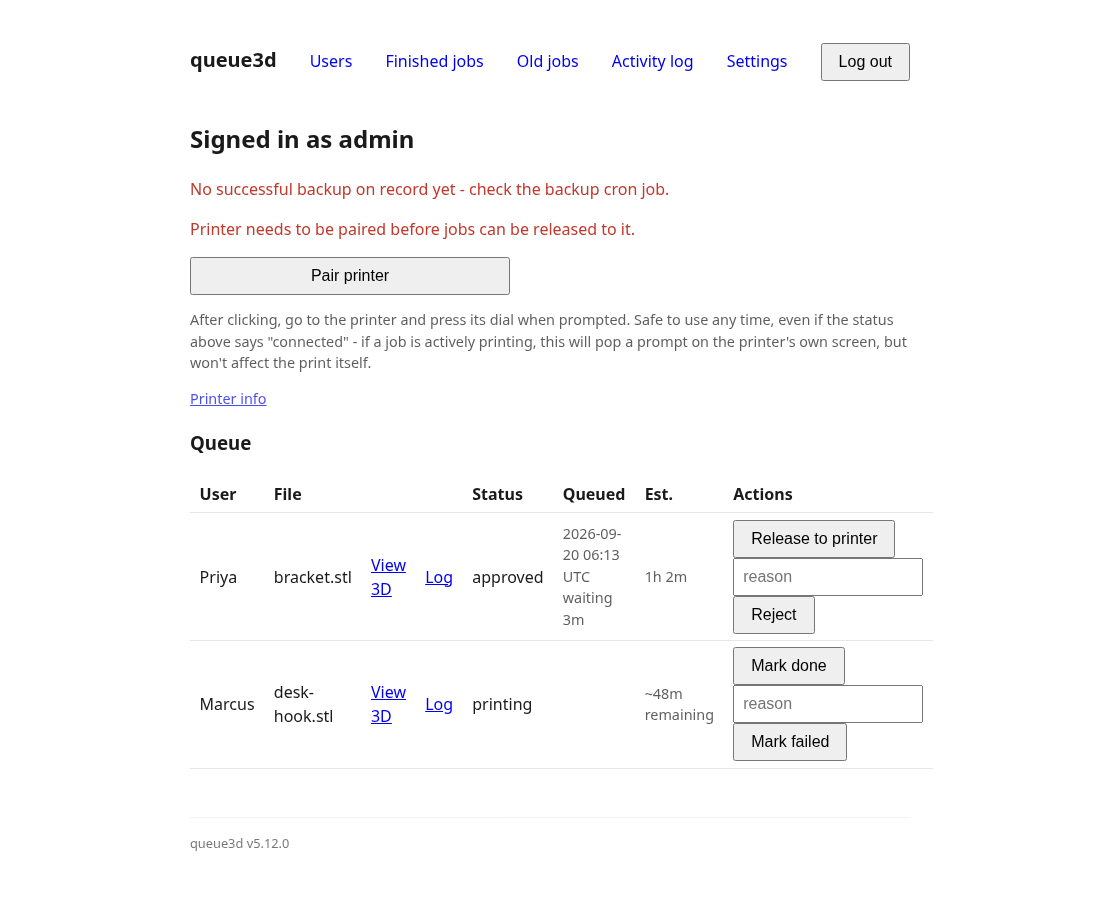
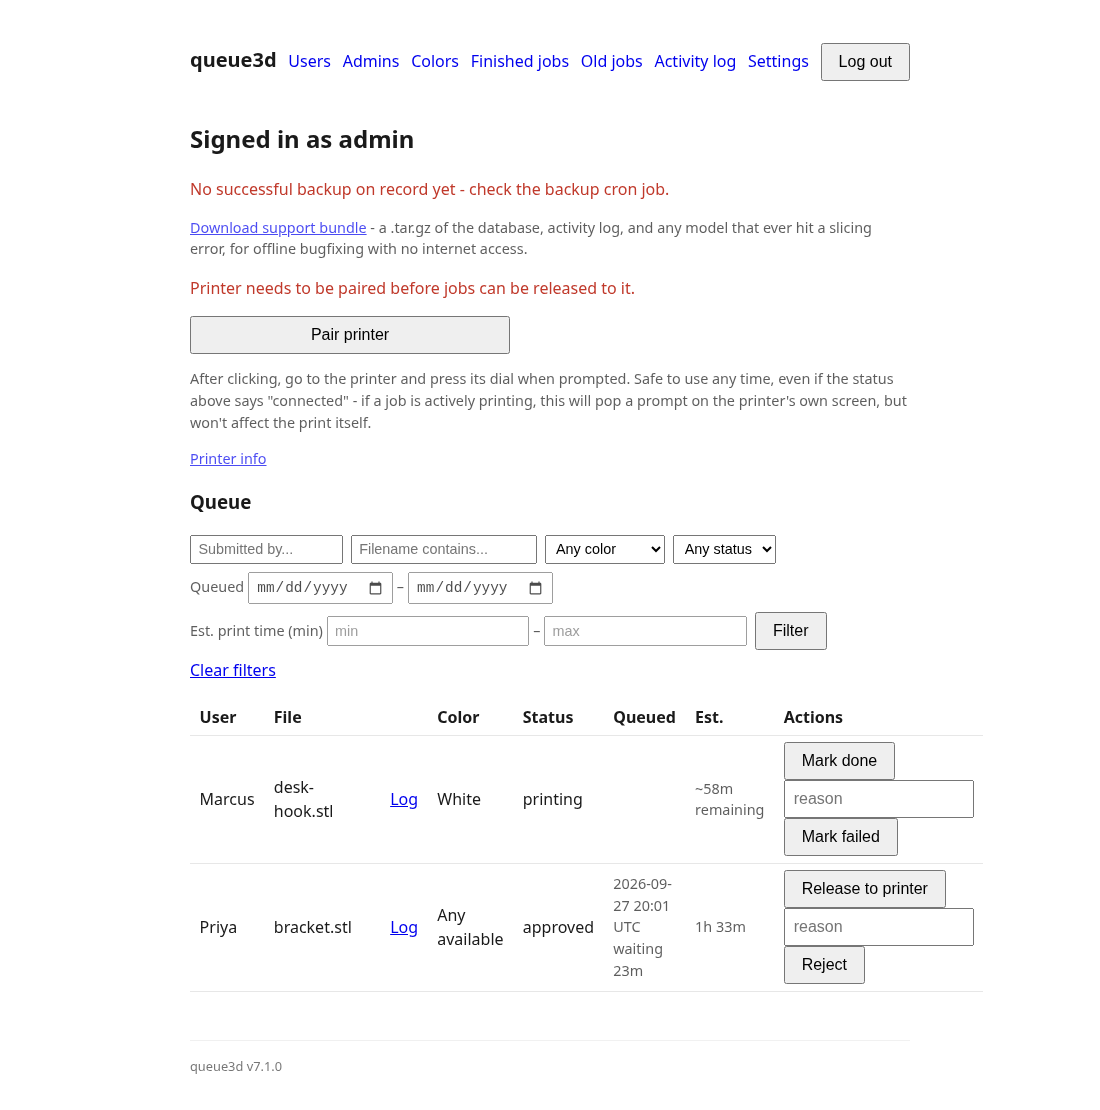
Refresh stale README screenshots, add a Themes gallery
Per the user, after the 7.1 release: "What happened to the README
update with new screenshots?" The 7.0/7.1 PR built a showcase artifact
page (linked from the PR/release) but never actually touched the
repo's own README - a real gap, not what "get fresh screenshots,
highlight the themes" should have meant.

The four existing screenshots (user-dashboard, 3d-preview-supports,
admin-dashboard, admin-users) turned out to be from v5.12.0 - well
before the sidebar-layout themes existed at all, showing the old
top-nav layout and a stale version footer. Refreshed three of them
(user-dashboard, admin-dashboard, admin-users) against the current app
with realistic seeded sample data matching the original screenshots'
own narrative (a rejected job with a note, a done job, a slice-failed
job, a sliced draft; an approved job waiting and one actively
printing), using the plain "Basic" theme so the top-of-README
screenshots show the app's generic capability, not one school's
specific branding. Left 3d-preview-supports.png alone - it needs a
real slice through the actual OrcaSlicer pipeline to regenerate
authentically, and doesn't show the stale nav/theme chrome the other
three did.

Added a new "Themes" section with all five: the four sidebar themes
(Console, Savanna, Fil) plus BMMS in both light and dark, plus the
login page showing BMMS's own letterhead-logo treatment - the actual
feature the 7.1 release shipped that the top-of-README screenshots
alone don't show at all.
[…]

diff --git a/README.md b/README.md
@@ -33,6 +33,34 @@ Managing user accounts:
 
 ![Admin user management page, listing users with disable/delete actions](docs/screenshots/admin-users.png)
 
+### Themes
+
+Every account - user or admin - picks its own theme and light/dark mode
+independently, persisting across logins and devices. The screenshots above
+use the plain "Basic" theme; four more ship alongside it, all sharing the
+same sidebar-tabs-and-bordered-sections layout with their own palette (and
+in Fil's case, an original mascot) on top:
+
+![Console theme - a neutral gray and indigo sidebar layout](docs/screenshots/console.png)
+
+![Savanna theme - a desert-sunrise photo behind the sidebar](docs/screenshots/savanna.png)
+
+![Fil theme - an original filament-wire mascot peeking around the sidebar](docs/screenshots/fil.png)
+
+**BMMS** is the odd one out - not a generic option, but built for this
+app's actual deployment site, using the school's own colors and logo. It's
+also the one theme that reaches the login page itself, regardless of which
+theme (if any) the person logging in has picked:
+
+![BMMS theme, light mode](docs/screenshots/bmms-light.png)
+
+![BMMS theme, dark mode](docs/screenshots/bmms-dark.png)
+
+![The login page, showing the school's logo as a large letterhead above the form](docs/screenshots/bmms-login.png)
+
+See `app/README.md`'s "The 'Console'/'Savanna'/'Fil'/'BMMS' theme"
+sections for the full design rationale behind each.
+
 ## Features
 
 - **Self-serve user accounts** - sign up with just a name and PIN, no
